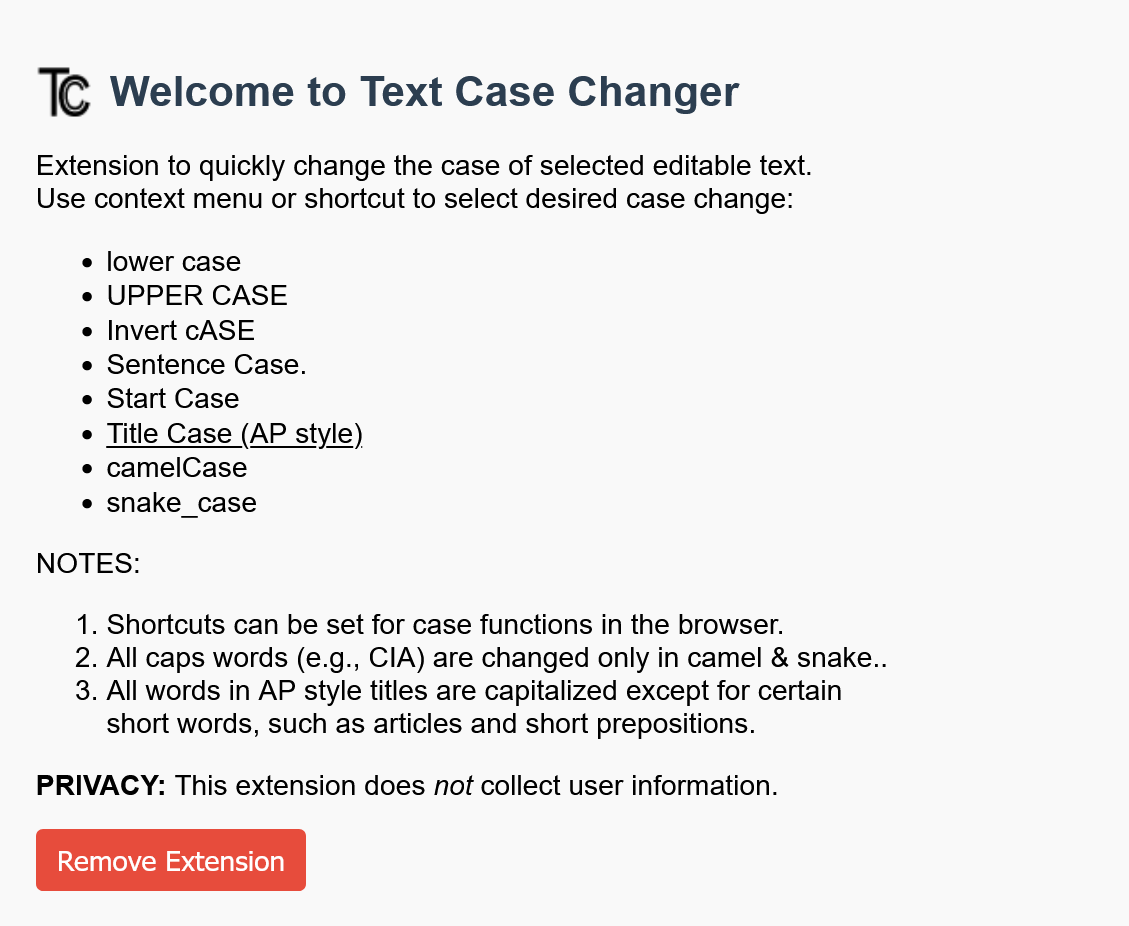
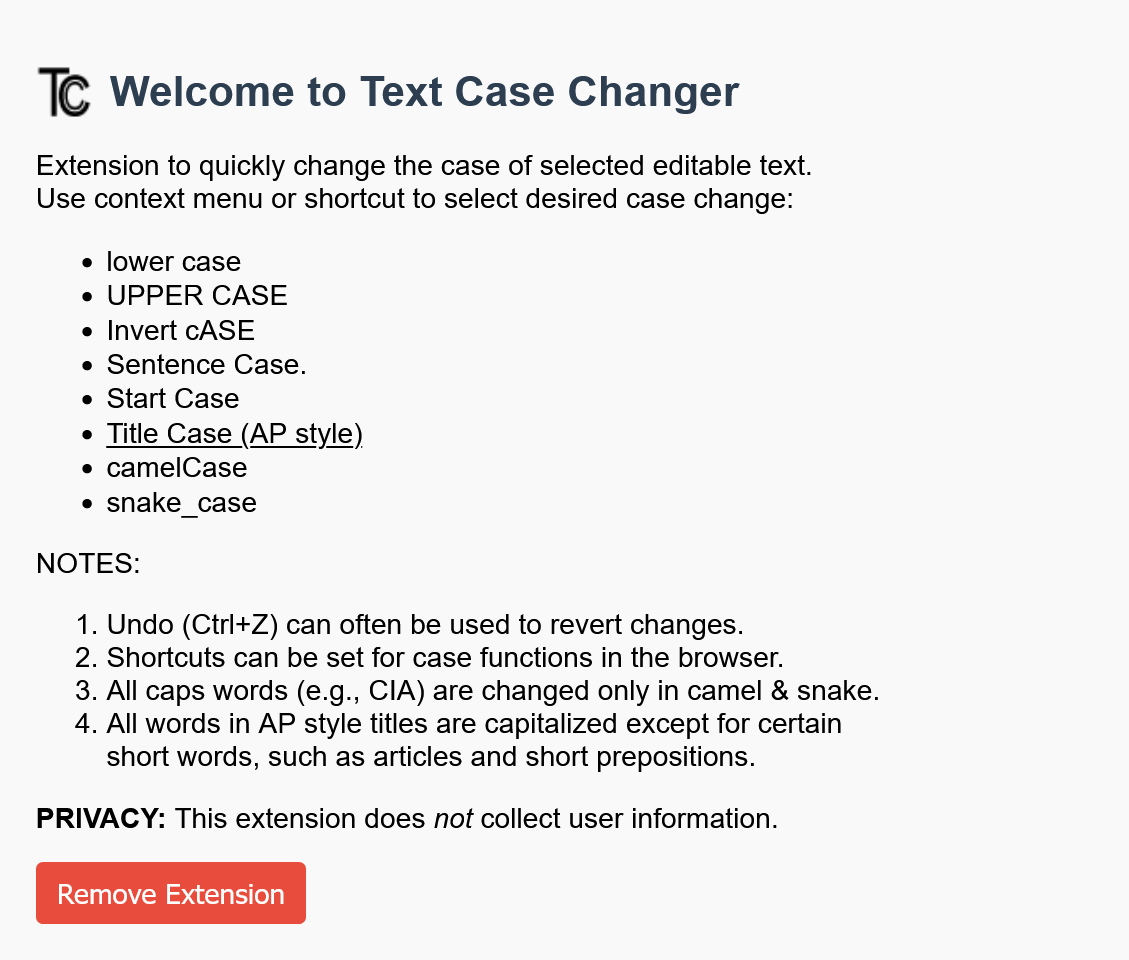
Enable Undo with deprecated function

diff --git a/Firefox/content.js b/Firefox/content.js
@@ -330,7 +330,10 @@ browser.runtime.onMessage.addListener((message, sender, sendResponse) => {
       if (start !== end) {
         let selected = active.value.substring(start, end);
         selected = fn(selected);
-        active.setRangeText(selected, start, end, "end");
+        // Select the text to replace
+        active.setSelectionRange(start, end);
+        // Use execCommand to insert text, enabling undo
+        document.execCommand('insertText', false, selected); //DEPRECATED, NO ALTERNATIVE, STILL WORKS
       }
     } else if (active && active.isContentEditable) {
       const sel = window.getSelection();
@@ -339,14 +342,8 @@ browser.runtime.onMessage.addListener((message, sender, sendResponse) => {
         if (!range.collapsed && active.contains(range.commonAncestorContainer)) {
           let selected = sel.toString();
           const newText = fn(selected);
-          range.deleteContents();
-          const textNode = document.createTextNode(newText);
-          range.insertNode(textNode);
-          sel.removeAllRanges();
-          const newRange = document.createRange();
-          newRange.setStartBefore(textNode);
-          newRange.setEndAfter(textNode);
-          sel.addRange(newRange);
+          // Selection is already set, just insert
+          document.execCommand('insertText', false, newText); //DEPRECATED, NO ALTERNATIVE, STILL WORKS
         }
       }
     }

diff --git a/Firefox/onboarding.html b/Firefox/onboarding.html
@@ -92,7 +92,7 @@ menu or shortcut to select desired case change:</p>
 </ul>
 <p>NOTES:</p>
 <ol>
-	<li>Undo (Ctrl+Z) can be used to revert changes.</li>
+	<li>Undo (Ctrl+Z) can often be used to revert changes.</li>
 	<li>Shortcuts can be set for case functions in the browser.</li>
 	<li>All caps words (e.g., CIA) are changed only in camel &amp; snake.</li>
 	<li>All words in AP style titles are capitalized except for certain<br>short 

diff --git a/Firefox/README.md b/Firefox/README.md
@@ -13,7 +13,7 @@ Use context menu or shortcut to select desired case change:
 **[Text Case Changer – Get this Extension for 🦊 Firefox (en-US)](https://addons.mozilla.org/en-US/firefox/addon/text-case-changer/)**
 
 **NOTES**:
-1. Undo (Ctrl+Z) can be used to revert changes.
+1. Undo (Ctrl+Z) can often be used to revert changes.
 2. Shortcuts can be set for case functions in the browser.
 3. All caps words (e.g., CIA) are changed only in camel & snake.
 4. All words in AP style titles are capitalized except for certain short words, such as articles and short prepositions.

diff --git a/README.md b/README.md
@@ -11,7 +11,7 @@ Use context menu or shortcut to select desired case change:
 * snake_case
 
 **NOTES**:
-1. Undo (Ctrl+Z) can be used to revert changes.
+1. Undo (Ctrl+Z) can often be used to revert changes.
 2. Shortcuts can be set for case functions in the browser.
 3. All caps words (e.g., CIA) are changed only in camel & snake.
 4. All words in AP style titles are capitalized except for certain short words, such as articles and short prepositions.
